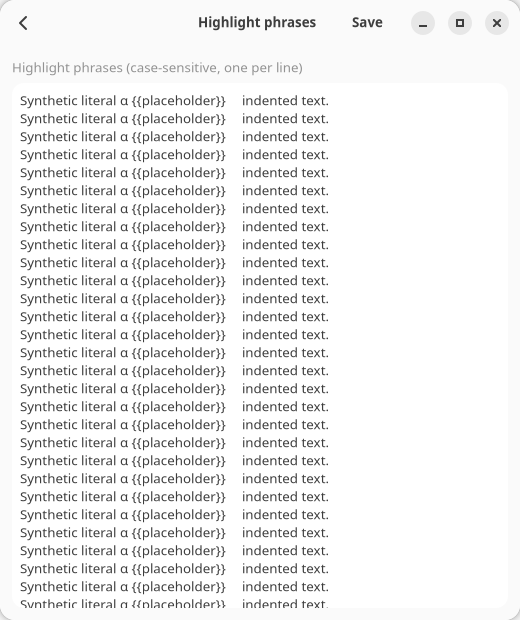
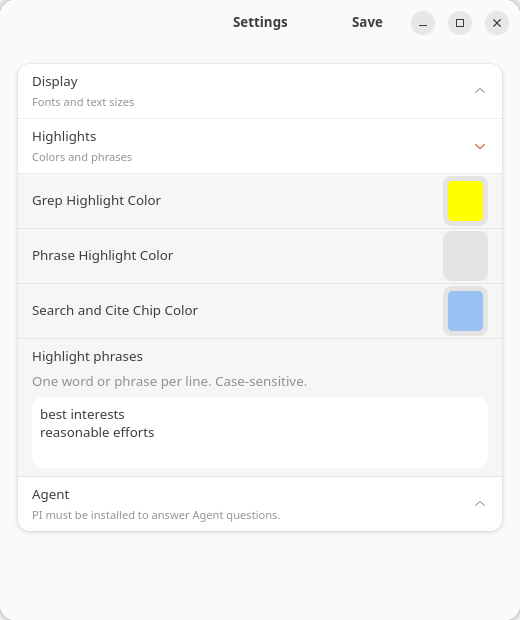
Edit highlight phrases inline in Settings

diff --git a/tests/test_unified_settings.py b/tests/test_unified_settings.py
@@ -2,6 +2,7 @@
 import unittest
 from unittest.mock import Mock, patch
 from focus.ui import settings as ui
+from focus.ui.settings_navigation import descendants
 
 
 class UnifiedSettingsTests(unittest.TestCase):
@@ -33,10 +34,15 @@ class UnifiedSettingsTests(unittest.TestCase):
         w = self.window()
         baseline = w._session.baseline
         w._ai_font_size_row.set_value(19)
+        w._highlight_phrases_buffer.set_text("Retained phrase")
         self.app.update_font_sizes.side_effect = OSError("synthetic font write failure")
-        with patch.object(ui, "save_ai_settings") as save:
+        with patch.object(ui, "save_ai_settings") as save, \
+             patch.object(w, "_show_status_toast") as status:
             w._navigation.save_buttons["home"].emit("clicked")
         save.assert_called_once()
+        self.assertEqual(save.call_args.args[0].highlight_phrases, ["Retained phrase"])
+        self.assertEqual(w._prompt_text(w._highlight_phrases_buffer), "Retained phrase")
+        self.assertIn("Some settings may already have been written", status.call_args.args[0])
         self.assertEqual(w._session.baseline, baseline)
         self.assertTrue(w.get_visible())
         self.app.on_ai_settings_saved.assert_not_called()
@@ -59,26 +65,112 @@ class UnifiedSettingsTests(unittest.TestCase):
         w._finish_pi_model_load(0, [], "late", None, "medium")
         self.assertIs(w._pi_model_options, options)
 
-    def test_highlights_destination_save_all_repeat_fail_and_close(self):
+    def test_inline_highlights_structure(self):
+        w = self.window()
+        self.assertEqual(set(w._navigation.pages), {"home"})
+        self.assertEqual(set(w._navigation.save_buttons), {"home"})
+        highlights = self.highlights(w)
+        view = next(widget for widget in descendants(highlights)
+                    if isinstance(widget, ui.Gtk.TextView))
+        self.assertIs(view.get_buffer(), w._highlight_phrases_buffer)
+        self.assertTrue(view.get_buffer().get_enable_undo())
+        self.assertFalse(view.get_accepts_tab())
+        self.assertEqual(view.get_wrap_mode(), ui.Gtk.WrapMode.WORD_CHAR)
+        scroller = view.get_parent()
+        self.assertIsInstance(scroller, ui.Gtk.ScrolledWindow)
+        self.assertFalse(scroller.get_vexpand())
+        self.assertEqual(scroller.get_policy(), (ui.Gtk.PolicyType.NEVER, ui.Gtk.PolicyType.AUTOMATIC))
+        self.assertEqual(scroller.get_min_content_height(), scroller.get_max_content_height())
+        expected = view.create_pango_layout("Ag\nAg\nAg").get_pixel_size()[1] + 16
+        self.assertEqual(scroller.get_min_content_height(), expected)
+        row = scroller.get_parent().get_parent()
+        self.assertIsInstance(row, ui.Adw.PreferencesRow)
+        self.assertFalse(row.get_activatable())
+        self.assertFalse(row.get_selectable())
+        labels = [widget for widget in descendants(row) if isinstance(widget, ui.Gtk.Label)]
+        self.assertEqual([label.get_text() for label in labels],
+                         ["Highlight phrases", "One word or phrase per line. Case-sensitive."])
+        self.assertTrue(all(label.get_wrap() for label in labels))
+
+    @staticmethod
+    def highlights(w):
+        return next(widget for widget in descendants(w._navigation.pages["home"])
+                    if isinstance(widget, ui.Adw.ExpanderRow) and widget.get_title() == "Highlights")
+
+    def test_inline_highlights_save_all_repeat_fail_clear_and_close(self):
         w = self.window()
         nav = w._navigation
-        nav.open("highlight-phrases")
+        highlights = self.highlights(w)
+        highlights.set_expanded(True)
         buffer = w._highlight_phrases_buffer
-        buffer.set_text("Literal α\nSecond phrase")
+        literal = " word \nbest interests\nreasonable, efforts\nLiteral α\n\nword\nWord\n"
+        buffer.set_text(literal)
+        highlights.set_expanded(False)
+        w._ai_font_size_row.set_value(15)
         baseline = w._session.baseline
-        with patch.object(ui, "save_ai_settings", side_effect=OSError("synthetic failure")):
-            nav.save_buttons["highlight-phrases"].emit("clicked")
+        with patch.object(ui, "save_ai_settings", side_effect=OSError("synthetic failure")), \
+             patch.object(w, "_show_status_toast") as status:
+            nav.save_buttons["home"].emit("clicked")
+        self.assertIn("drafts are retained", status.call_args.args[0])
         self.assertEqual(w._session.baseline, baseline)
-        self.assertEqual(buffer.get_text(*buffer.get_bounds(), True), "Literal α\nSecond phrase")
+        self.assertEqual(buffer.get_text(*buffer.get_bounds(), True), literal)
         with patch.object(ui, "save_ai_settings") as save:
-            nav.save_buttons["highlight-phrases"].emit("clicked")
+            nav.save_buttons["home"].emit("clicked")
+            self.assertEqual(save.call_args.args[0].highlight_phrases,
+                             ["word", "best interests", "reasonable, efforts", "Literal α", "Word"])
+            self.app.update_font_sizes.assert_called_once()
+            self.assertEqual(self.app.update_font_sizes.call_args.kwargs["ai_font_size_pt"], 15)
             self.assertTrue(w.get_visible())
-            self.assertEqual(nav.view.get_visible_page().get_tag(), "highlight-phrases")
+            self.assertEqual(nav.view.get_visible_page().get_tag(), "home")
             self.assertEqual(w._session.baseline, w._draft_snapshot())
-            w._ai_font_size_row.set_value(15)
+            highlights.set_expanded(True)
+            self.assertEqual(buffer.get_text(*buffer.get_bounds(), True), literal)
             nav.save_buttons["home"].emit("clicked")
             self.assertEqual(save.call_count, 2)
+            buffer.set_text("")
+            nav.save_buttons["home"].emit("clicked")
+            self.assertEqual(save.call_args.args[0].highlight_phrases, [])
+            self.assertEqual(w._session.baseline, w._draft_snapshot())
         buffer.insert_at_cursor(" unsaved")
         self.assertTrue(w._on_settings_close_request())
         self.assertFalse(w._pi_model_closed)
         w._session.dialog.response("keep")
+        self.assertTrue(w.get_visible())
+        self.assertEqual(w._prompt_text(buffer), " unsaved")
+        self.assertTrue(w._on_settings_close_request())
+        w._session.dialog.response("discard")
+        self.assertTrue(w._pi_model_closed)
+        self.assertTrue(w._session.closed)
+
+    def test_inline_height_tracks_font_changes(self):
+        w = self.window()
+        highlights = self.highlights(w)
+        highlights.set_expanded(True)
+        view = next(widget for widget in descendants(highlights)
+                    if isinstance(widget, ui.Gtk.TextView))
+        scroller = view.get_parent()
+        settings = view.get_settings()
+        original = settings.get_property("gtk-font-name")
+        self.addCleanup(settings.set_property, "gtk-font-name", original)
+        settings.set_property("gtk-font-name", "Sans 24")
+        context = ui.GLib.MainContext.default()
+        while context.pending():
+            context.iteration(False)
+        expected = view.create_pango_layout("Ag\nAg\nAg").get_pixel_size()[1] + 16
+        self.assertEqual(scroller.get_min_content_height(), expected)
+        self.assertEqual(scroller.get_max_content_height(), expected)
+        self.assertEqual(w._prompt_text(w._highlight_phrases_buffer), "")
+
+    def test_inline_edit_undo_and_soft_wrap_preserve_literal_text(self):
+        w = self.window()
+        buffer = w._highlight_phrases_buffer
+        literal = "long phrase " * 100
+        buffer.set_text(literal)
+        buffer.begin_user_action()
+        buffer.insert_at_cursor("\nSecond phrase\nUnicode α, β")
+        buffer.end_user_action()
+        self.assertEqual(buffer.get_line_count(), 3)
+        buffer.undo()
+        self.assertEqual(w._prompt_text(buffer), literal)
+        buffer.redo()
+        self.assertEqual(buffer.get_line_count(), 3)

diff --git a/focus/ui/settings.py b/focus/ui/settings.py
@@ -203,22 +203,33 @@ class AiSettingsWindow(Adw.ApplicationWindow):
         highlight_box.set_margin_bottom(6)
         highlight_box.set_margin_start(12)
         highlight_box.set_margin_end(12)
-        highlight_label = Gtk.Label(
-            label="Highlight phrases (case-sensitive, one per line)",
-            xalign=0,
-        )
-        highlight_label.add_css_class("dim-label")
+        highlight_label = Gtk.Label(label="Highlight phrases", xalign=0, wrap=True)
+        highlight_label.set_wrap_mode(Pango.WrapMode.WORD_CHAR)
+        highlight_label.set_width_chars(1)
         highlight_box.append(highlight_label)
+        highlight_help = Gtk.Label(
+            label="One word or phrase per line. Case-sensitive.",
+            xalign=0, wrap=True,
+        )
+        highlight_help.set_wrap_mode(Pango.WrapMode.WORD_CHAR)
+        highlight_help.set_width_chars(1)
+        highlight_help.add_css_class("dim-label")
+        highlight_box.append(highlight_help)
 
         highlight_scroller = Gtk.ScrolledWindow()
         highlight_scroller.set_policy(Gtk.PolicyType.NEVER, Gtk.PolicyType.AUTOMATIC)
         highlight_scroller.set_hexpand(True)
-        highlight_scroller.set_vexpand(True)
+        highlight_scroller.set_vexpand(False)
+        highlight_scroller.set_valign(Gtk.Align.START)
         round_editor(highlight_scroller)
         highlight_buffer = Gtk.TextBuffer()
         highlight_buffer.set_enable_undo(True)
         highlight_view = Gtk.TextView.new_with_buffer(highlight_buffer)
-        highlight_view.update_property([Gtk.AccessibleProperty.LABEL], ["Highlight phrases, one per line"])
+        highlight_view.update_property(
+            [Gtk.AccessibleProperty.LABEL, Gtk.AccessibleProperty.DESCRIPTION],
+            ["Highlight phrases", "One word or phrase per line. Case-sensitive."],
+        )
+        highlight_view.set_accepts_tab(False)
         highlight_view.set_wrap_mode(Gtk.WrapMode.WORD_CHAR)
         highlight_view.set_top_margin(8)
         highlight_view.set_bottom_margin(8)
@@ -226,13 +237,29 @@ class AiSettingsWindow(Adw.ApplicationWindow):
         highlight_view.set_right_margin(8)
         highlight_scroller.set_child(highlight_view)
         highlight_box.append(highlight_scroller)
-        for edge in ("top", "bottom", "start", "end"):
-            getattr(highlight_box, "set_margin_" + edge)(12)
-        highlight_box.set_vexpand(True)
-        self._navigation.add_page("highlight-phrases", "Highlight phrases", highlight_box)
-        phrases_row = Adw.ActionRow(title="Highlight phrases", activatable=True)
-        phrases_row.add_suffix(Gtk.Image.new_from_icon_name("go-next-symbolic"))
-        phrases_row.connect("activated", lambda *_: self._navigation.open("highlight-phrases", phrases_row))
+        # Measure three normal text lines, not the draft (which may be arbitrarily
+        # long). Recompute for font/DPI changes without making the editor expand.
+        def size_editor(scroller: Gtk.ScrolledWindow) -> None:
+            view = scroller.get_child()
+            height = view.create_pango_layout("Ag\nAg\nAg").get_pixel_size()[1] + 16
+            scroller.set_max_content_height(-1)
+            scroller.set_min_content_height(height)
+            scroller.set_max_content_height(height)
+
+        size_editor(highlight_scroller)
+        highlight_view.connect("map", lambda view: size_editor(view.get_parent()))
+        highlight_view.connect("notify::scale-factor", lambda view, _pspec: size_editor(view.get_parent()))
+
+        def font_changed(scroller: Gtk.ScrolledWindow, _pspec: object) -> None:
+            # Settings notify precedes the TextView's updated font context.
+            GLib.idle_add(size_editor, scroller)
+
+        for setting in ("gtk-font-name", "gtk-xft-dpi"):
+            highlight_view.get_settings().connect_object(
+                "notify::" + setting, font_changed, highlight_scroller,
+            )
+        phrases_row = Adw.PreferencesRow(activatable=False, selectable=False)
+        phrases_row.set_child(highlight_box)
         highlight_row.add_row(phrases_row)
         self._highlight_phrases_buffer = highlight_buffer
 

diff --git a/docs/unified-settings-validation.md b/docs/unified-settings-validation.md
@@ -1,25 +1,46 @@
-# Unified Settings — 2026-10-19
+# Unified Settings
 
-Publication: the user subsequently authorized a separate local commit of these changes. No push or maintained-app restart is included; the native-input limitation below remains unresolved. The no-commit statements describe the validation run.
+Publication: the user subsequently authorized committing and pushing the inline-editor changes. The no-commit/no-push statements below describe validation, not publication; native-input acceptance remains unverified.
 
-Display/Highlights/Agent retain their existing single boxed expandable home; compact fonts, colors and model controls remain inline. Highlight phrases opens a retained full-width, labelled, undo-enabled rounded editor with Back. No persistent sidebar or extra prompt collection was introduced.
+## Current interaction contract — inline Highlights, 2026-10-19
 
-Save applies all drafts and stays on the current destination. Only complete success advances the literal baseline. Pi, AI settings and font preferences remain independent writes; later failures report possible partial persistence and retain drafts. Refresh failure or an unavailable pending model retains the unsaved identity. Dirty Close offers **Keep Editing / Discard Unsaved Changes**; accepted closure alone releases ownership. Dirty Settings vetoes main-window teardown before agents/search and temporary artifacts are stopped/cleaned.
+Display/Highlights/Agent retain their boxed expandable home and existing color/font/model controls. **Highlight phrases** is now a full-width, non-activatable preferences row directly inside Highlights, not a destination or suffix control. Its labelled, undo-enabled rounded editor shows roughly three font-aware lines with padding, soft wrapping, no horizontal scrolling and bounded vertical scrolling. The helper reads **One word or phrase per line. Case-sensitive.** Both labels wrap at narrow widths. Tab leaves the editor; Enter retains normal multiline TextView behavior.
 
-## Local validation
+The existing buffer, load/format/draft-snapshot/normalization/persistence path is unchanged. Explicit Save trims surrounding whitespace, removes blank lines and exact duplicates in order, and preserves literal spaces, commas, Unicode and case distinctions. An empty field saves an empty list. There are no phrase count/length limits, new matching rules, schema changes, automatic saves or migrations.
 
-Disposable tracked-source copy and Python environment, selected through explicit paired UvEnvironments overrides, with synthetic HOME/XDG/Pi state and fabricated preferences/catalog/persistence. No actual case, indexing, model request, paid call or maintained settings were used.
+Save applies all drafts and stays on Settings. Collapsing Highlights retains drafts. Only complete success advances the literal baseline. Pi, AI settings and font preferences remain independent writes; failures report possible partial persistence and retain drafts. Refresh failure or an unavailable pending model retains the unsaved identity. Dirty Close offers **Keep Editing / Discard Unsaved Changes**; accepted closure alone releases ownership. Dirty Settings vetoes main-window teardown before agent/search cleanup.
 
-- Full pytest suite: **684 passed, 11 subtests passed, 1 pre-existing failure**.
-- Actual GTK settings/session subset: **5 passed**, with `G_DEBUG=fatal-criticals`.
-- Actual Save controls on home/detail, hidden edits, repeated Save, early persistence failure and later font-write failure, baseline acceptance, pending/unavailable model retention, stale/closed callbacks, dirty Keep/Discard and parent ownership.
-- The existing `test_readme_has_one_focus_uninstall_command` expects old uninstall-section headings absent from the minimal README. The same failure was reproduced from unchanged HEAD in a disposable baseline; unrelated installer documentation was not expanded to hide it.
-- GTK/Broadway previews passed at 900×720, 520×620 and 469×620, native light/dark and enlarged-font home. The Highlight phrases editor was **496×525** at 520px and **445×525** at 469px. Rounded-edge pixel checks passed.
+## Inline-editor validation — Work, 2026-10-19
 
-[Home](settings-previews/settings-home-520-dark.png) · [Light editor](settings-previews/settings-520-light.png) · [Dark editor](settings-previews/settings-520-dark.png) · [469px editor](settings-previews/settings-469-dark.png)
+All write-producing validation used `/tmp/focus-inline-Jel2Re/source` and its separate environment, explicitly provisioned/run with paired UvEnvironments `--project`/`--environment` overrides. HOME/XDG state, preferences, model adapters and persistence were synthetic. Private settings, maintained Focus and real cases were neither read nor modified. No model calls or other-computer actions.
 
-## Limits and artifacts
+- Focused actual GTK settings/session/model suite: **16 passed**, `G_DEBUG=fatal-criticals`, isolated D-Bus/Xvfb.
+- Full isolated pytest: **676 passed, 11 skipped, 11 subtests passed, 1 pre-existing failure**. Skips are the optional sibling PiRunMetrics/installed SDK integration (not copied or installed for this task).
+- Remaining failure: `test_readme_has_one_focus_uninstall_command` expects obsolete bold uninstall headings. Reproduced against unchanged HEAD in a separately provisioned disposable baseline. Installer documentation was not changed to mask it.
+- Offline actual GTK neutral-method acceptance: **PASS**, including the real menu-to-Settings route, fabricated question staging and retained stores/answers.
+- Offline answer switching: **PASS**, 320 transitions, zero GTK criticals, final identity/view and viewport restoration correct. Both acceptance harnesses ran with fatal GTK criticals and isolated D-Bus/Xvfb.
+- Updated tests exercise the real home Save button: normalization (single/multiword phrases, commas, Unicode, whitespace, blanks, duplicates and case), clearing, collapsed edits plus another setting, repeated Save, early save failure, later independent font-write failure, truthful status, literal baseline acceptance, dirty Keep/Discard, and undo/redo. Existing pending-model, stale/closed-callback and session/ownership coverage remains.
+- Structural assertions: the retained buffer belongs to Highlights; only `home` remains registered; no phrase destination/Save control; non-activatable full-width row, wrapping, accessible label/description, undo, Tab policy and compact scroller bounds. A font-change regression checks the deferred measurement after GTK updates its Pango context.
 
-The real GNOME desktop was locked during final observation. Broadway screenshots and programmatic GTK signals establish layout/lifecycle behavior, not native Wayland keyboard/pointer acceptance. Native traversal, focus/selection and viewport delivery remain to check after unlock. No additional installed-SDK acceptance is claimed.
+### Native layout and limitations
 
-Synthetic source/environment/logs remain under `/tmp/gtk-rollout-20261019/Focus`; see `final-full-result.log`, `final-focused.log`, `baseline-result.log`, `settings-all-preview.log`, and home/large-font preview logs. The root contains bounded `preview.py` and foreground `test.sh` runners. No commit, push, maintained-app restart, launcher change, private-file migration or other-computer action was performed.
+A separate synthetic **Synthetic Focus — Inline Highlights** window was rendered on the current GNOME/Wayland desktop. Final source was inspected at **900×720, 520×620 and 469×620**, each in **light/dark** and **Sans 10/Sans 18** (12 combinations). Widget snapshots below are synthetic native GTK renders, not screenshots of the maintained app.
+
+- The short/empty editor stays approximately three lines, rather than filling Settings. Native bounds were about **405×71** at 469px with Sans 10 and **405×115** with Sans 18; widths expand with the row, not a suffix.
+- Enlarged helper text wraps without horizontal clipping. At 469×620 with enlarged fonts the outer Settings viewport scrolls, keeping the full editor and Agent section reachable.
+- A long single phrase soft-wrapped with unchanged literal text/one buffer line and no horizontal overflow. A 100-line list retained the compact viewport; programmatic adjustment reached its end. Collapse, mocked Save and reopening retained the list and kept Settings visible. These were **programmatic GTK checks**, not delivered keyboard/wheel events.
+- Native coordinate click and targeted Tab dispatch reported success but did not change the synthetic window's focused widget. Native pointer placement, keyboard traversal/Enter, selection, multiline clipboard paste, undo shortcuts, wheel delivery and nested-scroll ergonomics are therefore **not accepted**. Buffer undo/redo, scroll adjustments and Save signals are tested, but do not substitute for native input acceptance. No blind text/clipboard replay or desktop settings changes were attempted.
+- An initial full run shared a D-Bus application ID with the preview and aborted; final suites used isolated D-Bus/Xvfb. A transient snapshot-harness issue was corrected by retaining its WidgetPaintable; the final matrix completed. Neither was treated as product acceptance evidence.
+
+[900px light](settings-previews/settings-900-light.png) · [520px light](settings-previews/settings-520-light.png) · [520px dark](settings-previews/settings-520-dark.png) · [469px dark](settings-previews/settings-469-dark.png) · [469px enlarged, outer viewport scrolled](settings-previews/settings-home-large-469-dark.png)
+
+Existing preview files were replaced with the inline design, including the historical home aliases. Local evidence: `/tmp/focus-inline-Jel2Re/{focused-final.log,full-final.log,baseline.log,neutral.log,answer.log,matrix.json,long-list.json}` and synthetic preview scripts/images. No dependency, launcher, CLI, mapping or cross-repository changes; no commit, push or maintained-app restart.
+
+## Historical unified-settings validation — earlier 2026-10-19
+
+The earlier, separately committed layout used a retained **dedicated Highlight phrases page with Back**. That presentation is superseded above; its results do not establish inline-editor acceptance.
+
+- Disposable tracked-source/environment with fabricated preferences/catalog/persistence: **684 passed, 11 subtests passed, 1 pre-existing README-heading failure**, reproduced on unchanged HEAD.
+- Actual GTK settings/session subset: **5 passed**, fatal GTK criticals. Home/detail Save, hidden edits, repeated Save, independent write failures, baseline acceptance, pending/unavailable models, stale/closed callbacks, dirty Keep/Discard and ownership were covered.
+- GTK/Broadway previews at 900×720, 520×620 and 469×620, light/dark and enlarged fonts. The former detail editor measured 496×525 at 520px and 445×525 at 469px; these are historical detail-page dimensions, not current compact-editor bounds.
+- The desktop was locked then; Broadway/programmatic signals did not establish native input acceptance. Earlier artifacts were recorded at `/tmp/gtk-rollout-20261019/Focus`. Publication was later authorized as a separate local commit, with no push or maintained-app restart.

diff --git a/AGENTS.md b/AGENTS.md
@@ -1,7 +1,7 @@
 # Repository Guidelines
 
 ## Settings interaction contract
-Preserve the existing Display/Highlights/Agent boxed expandable home. Highlight phrases has a retained full-width rounded editor; compact controls stay inline. Save all drafts without closing or navigating; only successful writes advance the literal baseline. Close offers Keep Editing / Discard Unsaved Changes. Preserve pending model/effort choices through refresh failure, and report partial independent writes truthfully. See `docs/unified-settings-validation.md`.
+Preserve the existing Display/Highlights/Agent boxed expandable home. Highlight phrases is a compact, full-width rounded multiline editor directly inside Highlights (roughly three font-aware lines, soft wrapping and vertical scrolling; Tab leaves the editor). Reuse its undo-enabled buffer and literal draft tracking; no separate phrase destination, automatic save, or phrase-management workflow. Compact controls stay inline. Save all drafts without closing or navigating; only successful writes advance the literal baseline. Close offers Keep Editing / Discard Unsaved Changes. Preserve pending model/effort choices through refresh failure, and report partial independent writes truthfully. See `docs/unified-settings-validation.md`.
 
 Public source installation is standalone: see docs/source-install.md. Focus must
 complete installation without Pi, login, model selection or paid verification.

diff --git a/README.md b/README.md
@@ -1,6 +1,6 @@
 # Focus
 
-Settings stays open after Save; Highlight phrases has a full-width editor.
+Settings stays open after Save; edit Highlight phrases directly inside Highlights.
 [Settings guide and validation](docs/unified-settings-validation.md).
 
 <img src="focus.svg" alt="Focus icon" width="96" align="right">
